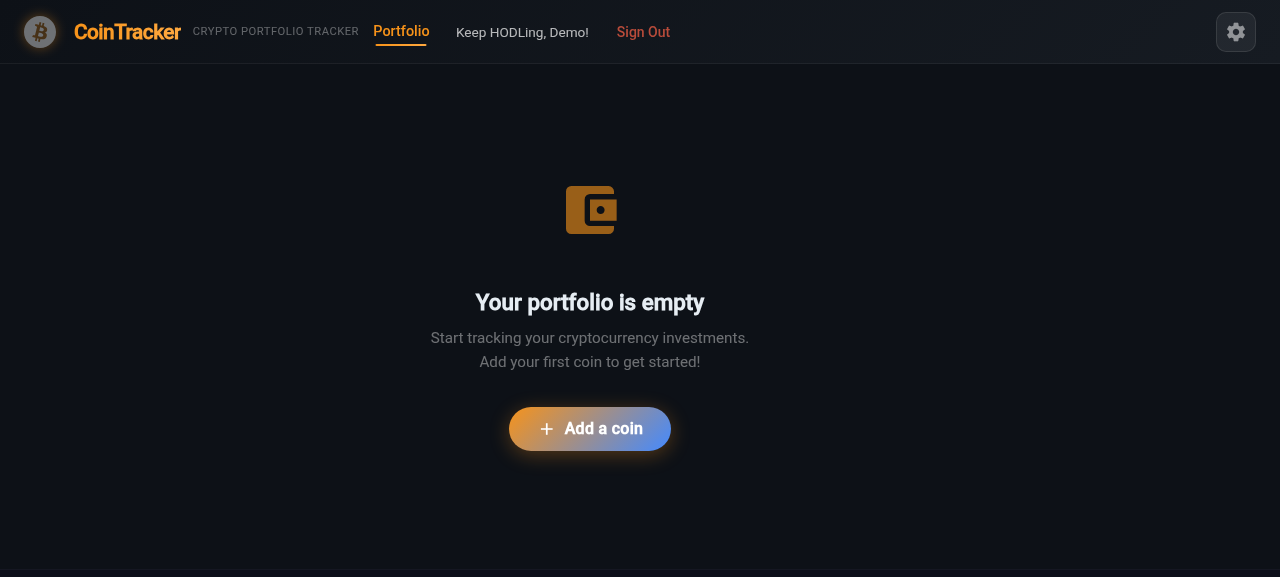
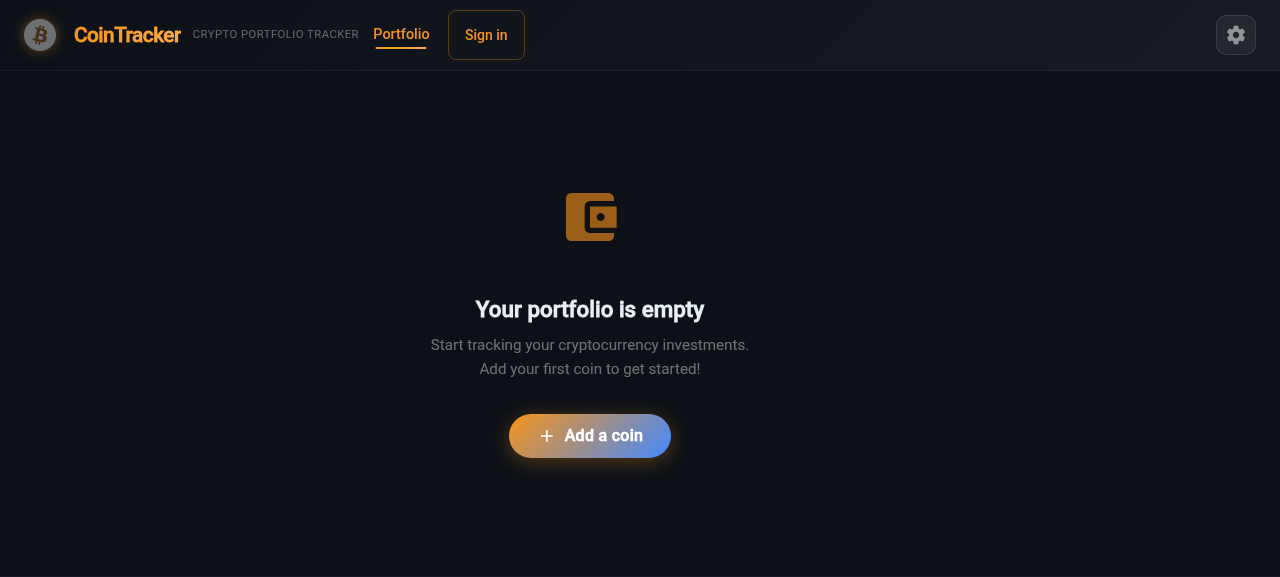
fix: disable autocomplete until CoinGecko loads, add README screenshots
- Initialize coins as empty array to prevent .slice() crash
- Add coins.length guard in _filterCoins
- Bind [matAutocompleteDisabled] until coin list is loaded
- Fixes 'Cannot read properties of undefined (reading activeItem)' error
- Add Add Coin dialog screenshot to README

diff --git a/src/app/coins/add-coin/add-coin.component.ts b/src/app/coins/add-coin/add-coin.component.ts
@@ -24,7 +24,7 @@ export class AddCoinComponent implements OnInit, OnDestroy {
   coinSubmit: Coin;
 
   coinName = new FormControl();
-  coins;
+  coins = [];
 
   filteredCoins: Observable<Coin[]>;
 
@@ -62,7 +62,7 @@ export class AddCoinComponent implements OnInit, OnDestroy {
 
   private _filterCoins(value: string): Coin[] {
     const filterValue = value.toLowerCase();
-    if (!this.coins || !this.coins[0]) { return []; }
+    if (!this.coins || !this.coins.length || !this.coins[0]) { return []; }
     return this.coins[0].filter(
       (coin) => coin.symbol.toLowerCase().indexOf(filterValue) === 0
     );

diff --git a/src/app/coins/add-coin/add-coin.component.html b/src/app/coins/add-coin/add-coin.component.html
@@ -17,6 +17,7 @@
             [matAutocomplete]="auto"
             [formControl]="coinName"
             minlength="2"
+            [matAutocompleteDisabled]="!coins || !coins.length"
           />
 
           <mat-autocomplete #auto="matAutocomplete">

diff --git a/README.md b/README.md
@@ -37,6 +37,11 @@
 
 *Real-time portfolio tracker with live CoinGecko prices, 7-day sparkline charts, and 24h change indicators*
 
+### Add Coin Dialog
+![Add coin form dialog](screenshots/add-coin.png)
+
+*Add coins with symbol auto-complete, amount, price, date picker, and exchange fields*
+
 ### 404 Page
 ![404 page with animated floating number](screenshots/404.png)
 
